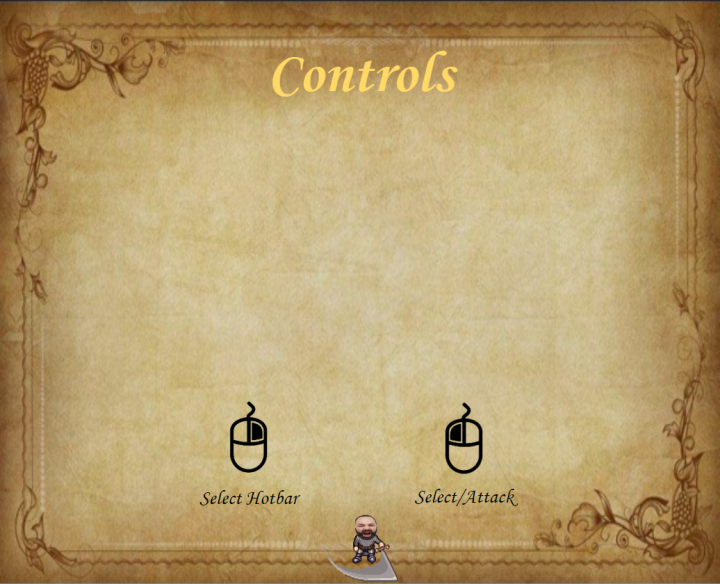
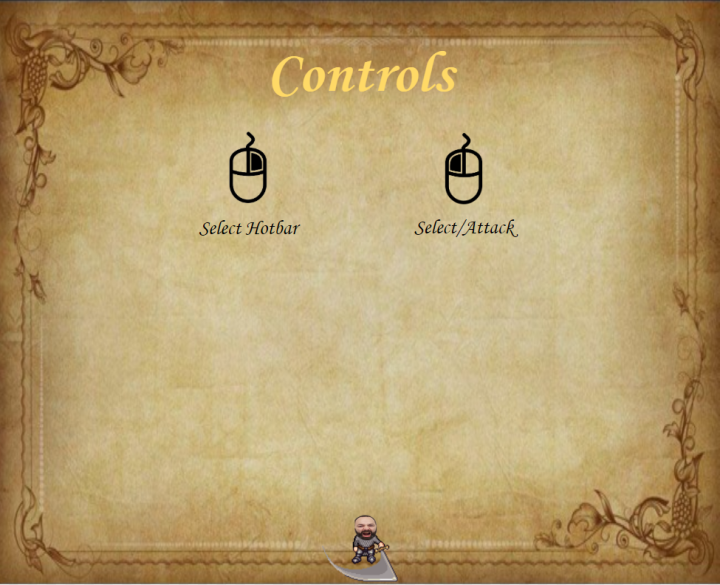
Possibly last commit of project?

diff --git a/ISU_Medieval_Odyssey/Entities/Player.cs b/ISU_Medieval_Odyssey/Entities/Player.cs
@@ -57,12 +57,12 @@ namespace ISU_Medieval_Odyssey
         /// <summary>
         /// The amount of experience that the <see cref="Player"/> has
         /// </summary>
+        [JsonProperty]
         public short Experience
         {
             get => experienceBar.CurrentValue;
             set => SetExperience(value);
         }
-        [JsonProperty]
         private NumberBar experienceBar;
 
         /// <summary>
@@ -95,6 +95,7 @@ namespace ISU_Medieval_Odyssey
         [JsonIgnore]
         public int AttackLevel => attributes[1].Level;
 
+        // Attributes of this player
         [JsonProperty]
         private Attribute[] attributes = new Attribute[4];
 
@@ -136,7 +137,7 @@ namespace ISU_Medieval_Odyssey
         /// <summary>
         /// The <see cref="Item"/> in this <see cref="Player"/>'s hand
         /// </summary>
-        [JsonProperty]
+        [JsonIgnore]
         public Item ItemInHand { get; set; } = null;
 
         /// <summary>
@@ -222,21 +223,16 @@ namespace ISU_Medieval_Odyssey
                 }
             }
 
-            // To Remove Later
-            inventory[6].Item = new Dagger();
-            inventory[7].Item = new Sword();
-            inventory[8].Item = new Bow();
-            inventory[9].Item = new HealthPotion();
-            inventory[10].Item = new AttackPotion();
-            inventory[11].Item = new SpeedPotion();
-            inventory[12].Item = new DefensePotion();
-
-            inventory[0].Item = new MetalShoes();
-            inventory[1].Item = new MetalPants();
+            // Setting up basic inventory
+            Gold = 50;
+            inventory[0].Item = new LeatherShoes();
+            inventory[1].Item = new LeatherPants();
             inventory[2].Item = new LeatherBelt();
-            inventory[3].Item = new MetalTorso();
-            inventory[4].Item = new MetalShoulders();
-            inventory[5].Item = new MetalHelmet();
+            inventory[3].Item = new LeatherTorso();
+            inventory[4].Item = new LeatherShoulders();
+            inventory[5].Item = new LeatherHat();
+            inventory[6].Item = new Sword();
+            inventory[7].Item = new Bow();
 
             // Setting up player attributes
             attributes[0] = new Attribute(new Rectangle(108, 230, 100, 30), "Health", () =>

diff --git a/ISU_Medieval_Odyssey/Items/Weapon/Weapon.cs b/ISU_Medieval_Odyssey/Items/Weapon/Weapon.cs
@@ -8,6 +8,7 @@
 using Microsoft.Xna.Framework;
 using Microsoft.Xna.Framework.Audio;
 using Microsoft.Xna.Framework.Graphics;
+using Newtonsoft.Json;
 
 namespace ISU_Medieval_Odyssey
 {
@@ -16,6 +17,7 @@ namespace ISU_Medieval_Odyssey
         /// <summary>
         /// The value of the item - the price at which it will be purchased at
         /// </summary>
+        [JsonProperty]
         public override int Value => damage + durabilityBar.CurrentValue / 2;
 
         // The directional spritesheet for a weapon
@@ -25,7 +27,10 @@ namespace ISU_Medieval_Odyssey
         protected Rectangle adjustedRectangle = new Rectangle(0, 0, 300, 300);
 
         // Damage, durability, and breaking sound effect
+        [JsonProperty]
         protected int damage;
+        [JsonProperty]
+        protected int durability;
         private ProgressBar durabilityBar;
         private static SoundEffect breakSoundEffect;
 
@@ -48,9 +53,9 @@ namespace ISU_Medieval_Odyssey
         protected void Initialize(int minDamage, int maxDamage, int minDurability, int maxDurability)
         {
             // Setting up various weapon statistics
-            short durability = (short)SharedData.RNG.Next(minDurability, maxDurability + 1);
+            durability = (short)SharedData.RNG.Next(minDurability, maxDurability + 1);
             damage = SharedData.RNG.Next(minDamage, maxDamage + 1);
-            durabilityBar = new ProgressBar(new Rectangle(0, 0, 50, 5), durability, durability, Color.White * 0.6f, Color.Green * 0.6f);
+            durabilityBar = new ProgressBar(new Rectangle(0, 0, 50, 5), (short)durability, (short)durability, Color.White * 0.6f, Color.Green * 0.6f);
         }
 
         /// <summary>
@@ -106,6 +111,7 @@ namespace ISU_Medieval_Odyssey
         public override void Use(Player player)
         {
             // Updating and breaking weapon if durability drops
+            --durability;
             if (--durabilityBar.CurrentValue == 0)
             {
                 Valid = false;

diff --git a/ISU_Medieval_Odyssey/World/World.cs b/ISU_Medieval_Odyssey/World/World.cs
@@ -50,7 +50,6 @@ namespace ISU_Medieval_Odyssey
         private List<LiveItem> liveItems = new List<LiveItem>();
         private List<IBuilding> buildings = new List<IBuilding>();
         private List<Projectile> projectiles = new List<Projectile>();
-
         public List<Enemy> DungeonEnemies { get; set; } = new List<Enemy>();
 
         // A set of cached buildings
@@ -98,17 +97,13 @@ namespace ISU_Medieval_Odyssey
             AdjustLoadedChunks(new Vector2Int(0, 0));//  Player.Instance.CurrentChunk);
 
 
-            // Remove
+            // Giving the player a few basic buildings near spawn
             buildings.Add(new Shop(new Vector2Int(2, 2)));
             cachedBuildings.Add(buildings[0]);
-
             buildings.Add(new Dungeon(new Vector2Int(10, 10)));
             cachedBuildings.Add(buildings[1]);
-
             buildings.Add(new Safehouse(new Vector2Int(-10, -10)));
             cachedBuildings.Add(buildings[2]);
-
-            enemies.Add(new Zombie(new Vector2Int(-1, -1), false));
         }
 
         /// <summary>
@@ -154,12 +149,15 @@ namespace ISU_Medieval_Odyssey
             if (enemyGenerationTimer > ENEMY_GENERATE_TIME)
             {
                 chunkBounaryID = SharedData.RNG.Next(chunkBoundaries.Length);
-                enemies.Add(Enemy.RandomEnemy(chunkBoundaries[chunkBounaryID] + Player.Instance.CurrentTile, false));
+
+                if (!GetTileAt(chunkBoundaries[chunkBounaryID] + Player.Instance.CurrentChunk).OutsideObstructState)
+                {
+                    enemies.Add(Enemy.RandomEnemy(chunkBoundaries[chunkBounaryID] + Player.Instance.CurrentTile, false));
+                }
                 enemyGenerationTimer = 0;
             }
 
             // Updating enemies
-
             if (!IsInside)
             {
                 for (int i = enemies.Count - 1; i >= 0; --i)

diff --git a/ISU_Medieval_Odyssey/Screen/GameScreen.cs b/ISU_Medieval_Odyssey/Screen/GameScreen.cs
@@ -24,12 +24,12 @@ namespace ISU_Medieval_Odyssey
         /// <summary>
         /// The player in the world
         /// </summary>
-        public Player Player { get; set; } = new Player("Test");
+        public Player Player { get; set; }
 
         /// <summary>
         /// The world of the game
         /// </summary>
-        public World World { get; set; } = new World();
+        public World World { get; set; }
 
         // Camera-realted variables
         public Camera Camera { get; set; } = new Camera();
@@ -97,6 +97,17 @@ namespace ISU_Medieval_Odyssey
             // Updating logic for minimap camera
             miniMapCamera.Position = - World.WorldBoundsRect.Location.ToVector2() / Chunk.SIZE + adjustmentVector;
             miniMapCamera.Origin = miniMapCamera.Position - World.WorldBoundsRect.Location.ToVector2() / Chunk.SIZE * miniMapCamera.OrthographicSize / 2.0f;
+
+            if (Player.Health <= 0)
+            {
+                Player = null;
+                World = null;
+                Main.CurrentScreen = ScreenMode.MainMenu;
+            }
+            else if (KeyboardHelper.NewKeyStroke(SettingsScreen.Instance.Pause))
+            {
+                Main.CurrentScreen = ScreenMode.MainMenu;
+            }
         }
 
         /// <summary>

diff --git a/ISU_Medieval_Odyssey/Screen/MainMenuScreen.cs b/ISU_Medieval_Odyssey/Screen/MainMenuScreen.cs
@@ -54,10 +54,8 @@ namespace ISU_Medieval_Odyssey
             optionButtons[1] = new Button(Main.Content.Load<Texture2D>("Images/Sprites/Buttons/loadGameButton"), new Rectangle(SharedData.SCREEN_WIDTH / 2 - 150, BUTTON_INITIAL_Y + BUTTON_SPACING, 300, 100), () =>
             {
                 Main.CurrentScreen = ScreenMode.Game;
-             //   GameScreen.Instance.Player = IO.LoadPlayer();
                 MediaPlayer.Stop();
             });
-            optionButtons[1].Active = IO.WorldExists();
             optionButtons[2] = new Button(Main.Content.Load<Texture2D>("Images/Sprites/Buttons/howToPlayButton"), new Rectangle(SharedData.SCREEN_WIDTH / 2 - 150, BUTTON_INITIAL_Y + 2 * BUTTON_SPACING, 300, 100), () =>
             {
                 Main.CurrentScreen = ScreenMode.HowToPlay;
@@ -82,6 +80,9 @@ namespace ISU_Medieval_Odyssey
             {
                 MediaPlayer.Play(backgroundMusic);
             }
+
+            // Updating whether the "Load game" button is valid
+            optionButtons[1].Active = GameScreen.Instance.Player != null && GameScreen.Instance.World != null;
 
             // Updating various main menu buttons
             for (int i = 0; i < optionButtons.Length; ++i)

diff --git a/ISU_Medieval_Odyssey/Screen/SettingsScreen.cs b/ISU_Medieval_Odyssey/Screen/SettingsScreen.cs
@@ -278,10 +278,7 @@ namespace ISU_Medieval_Odyssey
 
             // Drawing keybindings and corresponding graphics
             spriteBatch.DrawString(textFonts[1], "KeyBindings", textLocations[4], Color.White);
-            for (byte i = 0; i < keyBindings.Length; ++i)
-            {
-                keyBindings[i].Draw(spriteBatch, i == selectedKeyBinding);
-            }
+            DrawKeys(spriteBatch);
 
             // Drawing setting options buttons
             for (byte i = 0; i < settingOptionButtons.Length; ++i)
@@ -294,6 +291,19 @@ namespace ISU_Medieval_Odyssey
 
             // Ending sprite batch
             spriteBatch.End();
+        }
+
+        /// <summary>
+        /// Subprogram to draw the variosu keys
+        /// </summary>
+        /// <param name="spriteBatch"></param>
+        public void DrawKeys(SpriteBatch spriteBatch)
+        {
+            // Drawing keys
+            for (byte i = 0; i < keyBindings.Length; ++i)
+            {
+                keyBindings[i].Draw(spriteBatch, i == selectedKeyBinding);
+            }
         }
     }
 }

diff --git a/ISU_Medieval_Odyssey/Items/Item.cs b/ISU_Medieval_Odyssey/Items/Item.cs
@@ -7,24 +7,28 @@
 
 using Microsoft.Xna.Framework;
 using Microsoft.Xna.Framework.Graphics;
+using Newtonsoft.Json;
 
 namespace ISU_Medieval_Odyssey
 {
-    public abstract class Item
+    public class Item
     {
         /// <summary>
         /// The value of the item - the price at which it will be purchased at
         /// </summary>
+        [JsonProperty]
         public virtual int Value { get; protected set; }
 
         /// <summary>
         /// Whether the item is valid or not - does it still exist
         /// </summary>
+        [JsonProperty]
         public bool Valid { get; protected set; } = true;
 
         /// <summary>
         /// Whether the item is the <see cref="Player"/>'s item
         /// </summary>
+        [JsonProperty]
         public bool IsPlayerItem { get; set; } = true;
 
         // The image the item's icon

diff --git a/ISU_Medieval_Odyssey/Entities/Attribute.cs b/ISU_Medieval_Odyssey/Entities/Attribute.cs
@@ -78,8 +78,8 @@ namespace ISU_Medieval_Odyssey
         public void Draw(SpriteBatch spriteBatch)
         {
             // Drawing attribute update button and corresponding text
-            spriteBatch.DrawString(SharedData.InformationFonts[0], $"{name}", textLocations[0], Color.Indigo);
-            spriteBatch.DrawString(SharedData.InformationFonts[0], $"Level {Level}", textLocations[1], Color.Indigo);
+            spriteBatch.DrawString(SharedData.InformationFonts[0], $"{name}", textLocations[0], Color.White);
+            spriteBatch.DrawString(SharedData.InformationFonts[0], $"Level {Level}", textLocations[1], Color.White);
             spriteBatch.DrawString(SharedData.InformationFonts[3], $"{LevelUpRequirement()} Points", textLocations[2], Color.White);
             upgradeButton.Draw(spriteBatch);
         }

diff --git a/ISU_Medieval_Odyssey/Screen/HowToPlayScreen.cs b/ISU_Medieval_Odyssey/Screen/HowToPlayScreen.cs
@@ -89,6 +89,12 @@ namespace ISU_Medieval_Odyssey
             // Drawing current background
             backgrounds[currentBackground].Draw(spriteBatch);
 
+            // Drawing key bindings in appropraite screen
+            if (currentBackground == 2)
+            {
+                SettingsScreen.Instance.DrawKeys(spriteBatch);
+            }
+
             // Drawing appropriate buttons, when applicable
             backButton.Draw(spriteBatch);
             if (currentBackground > 0)
